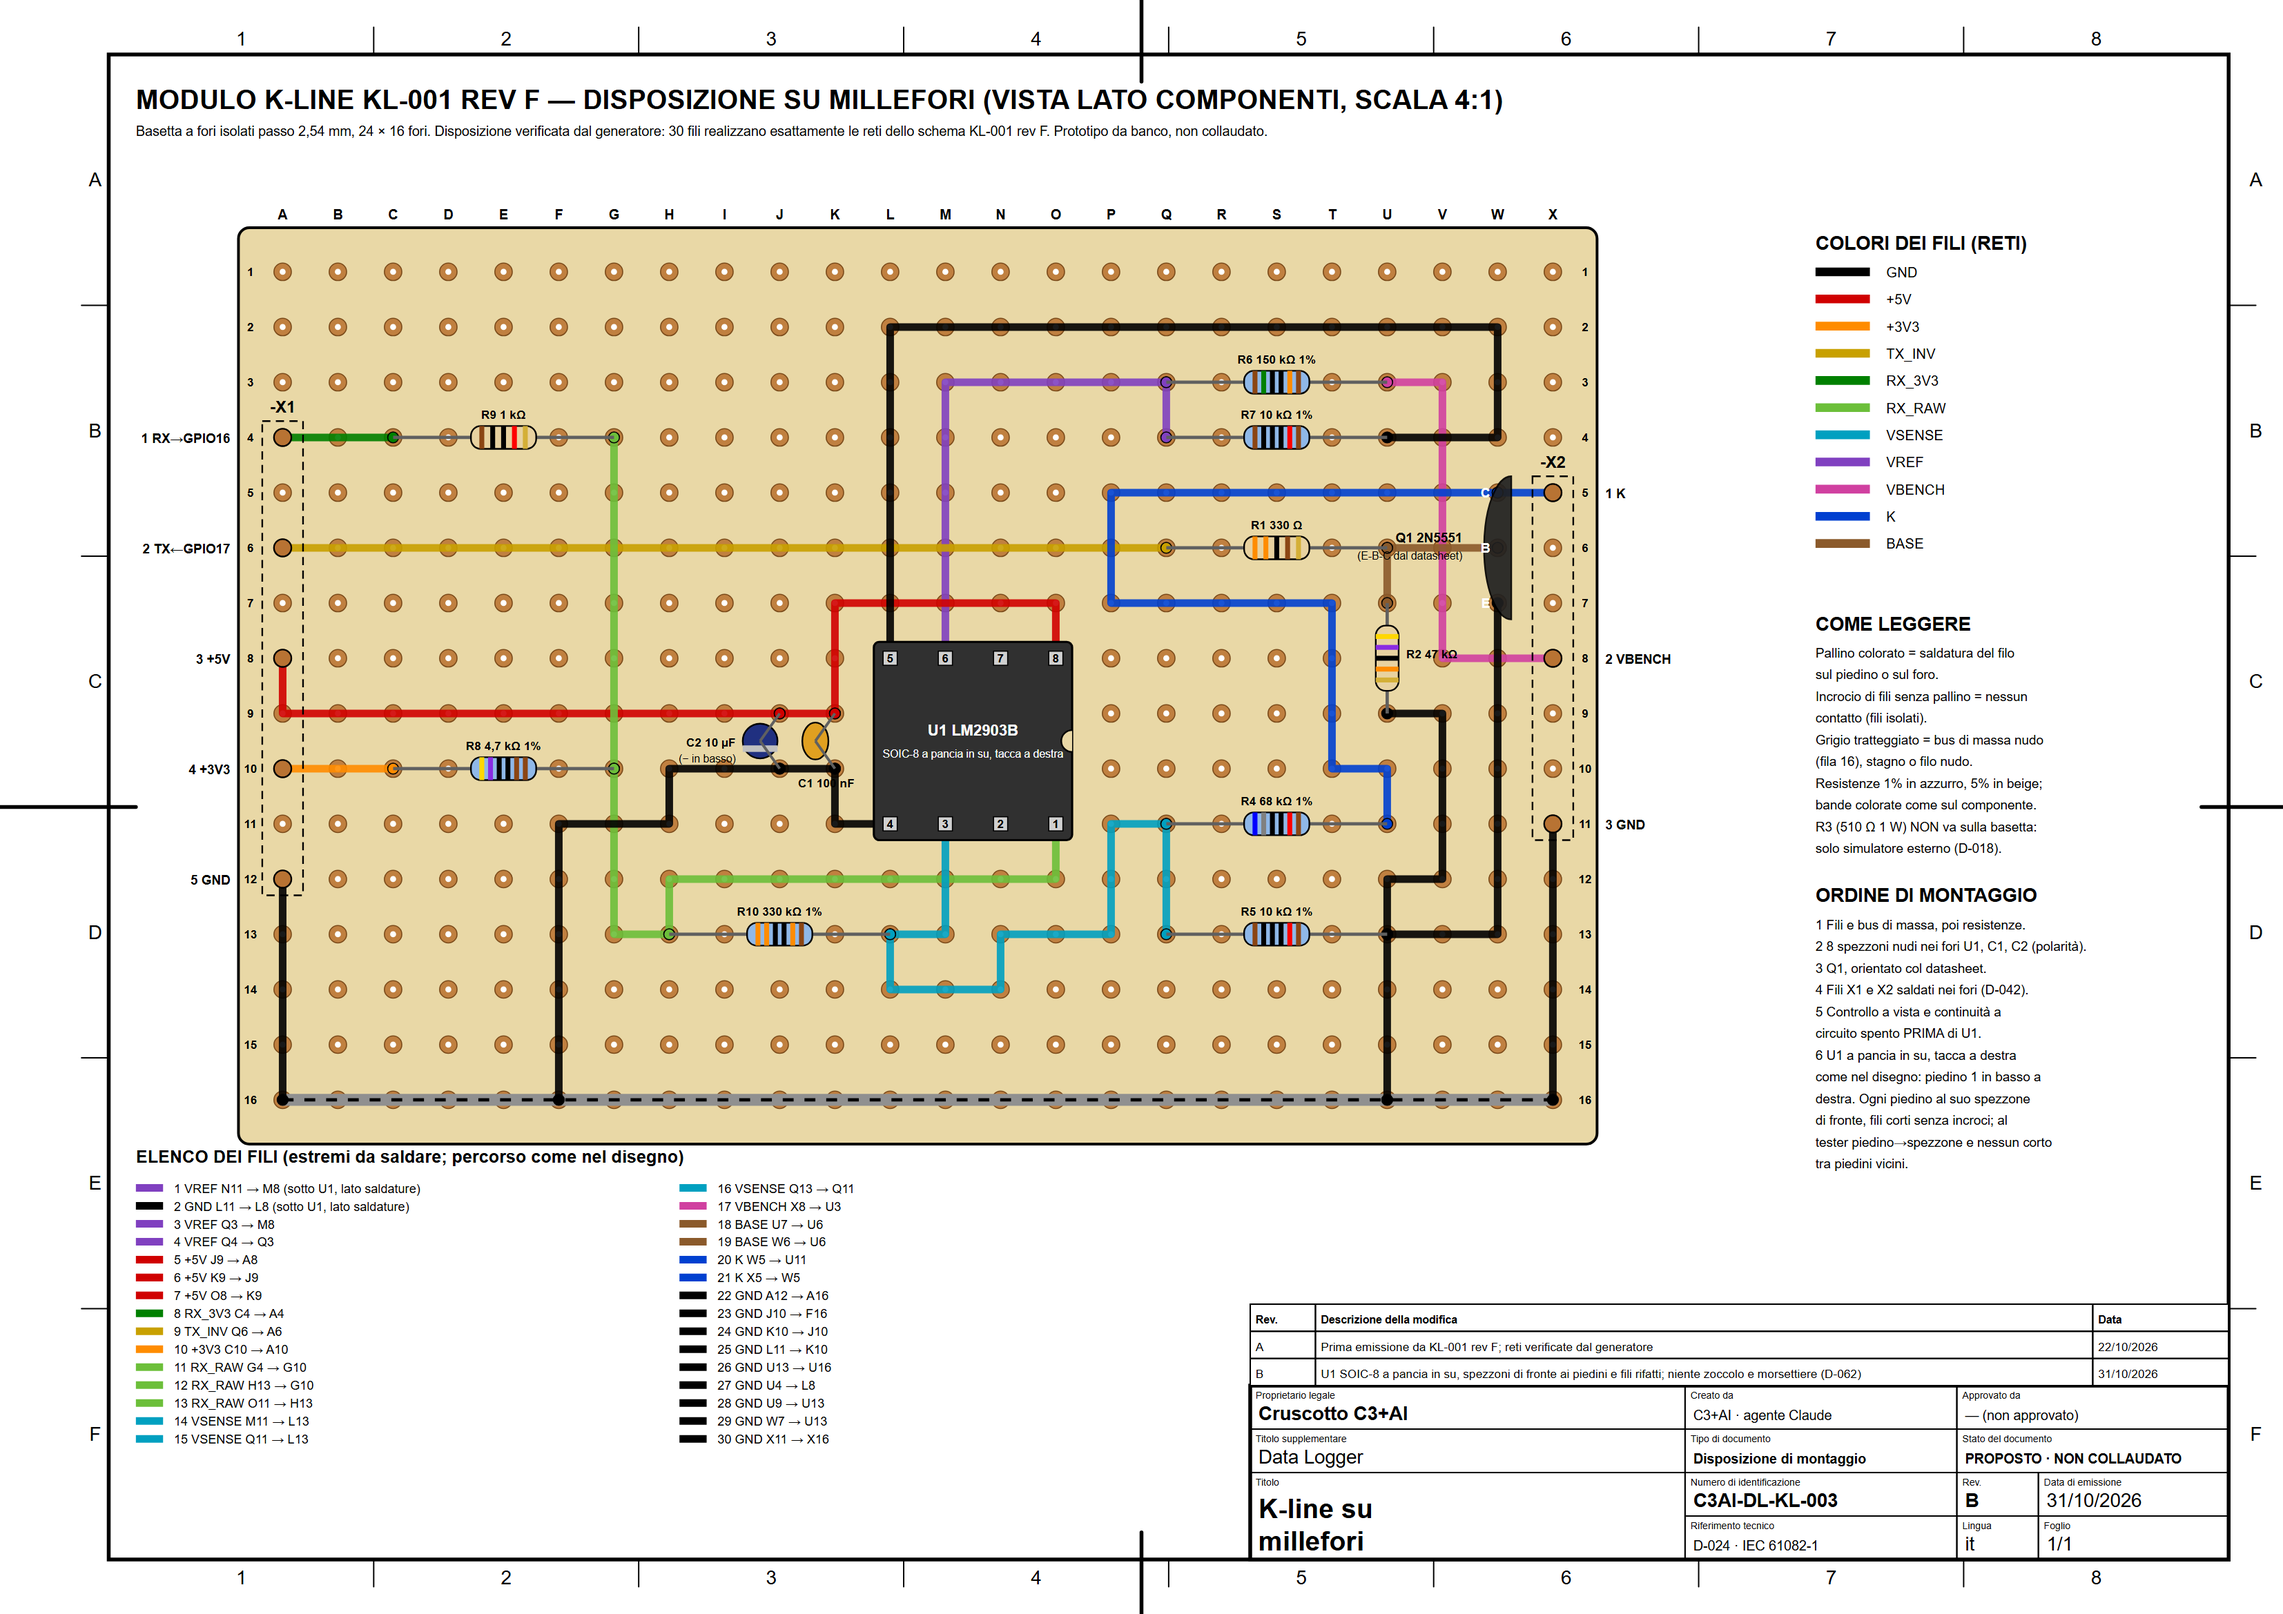
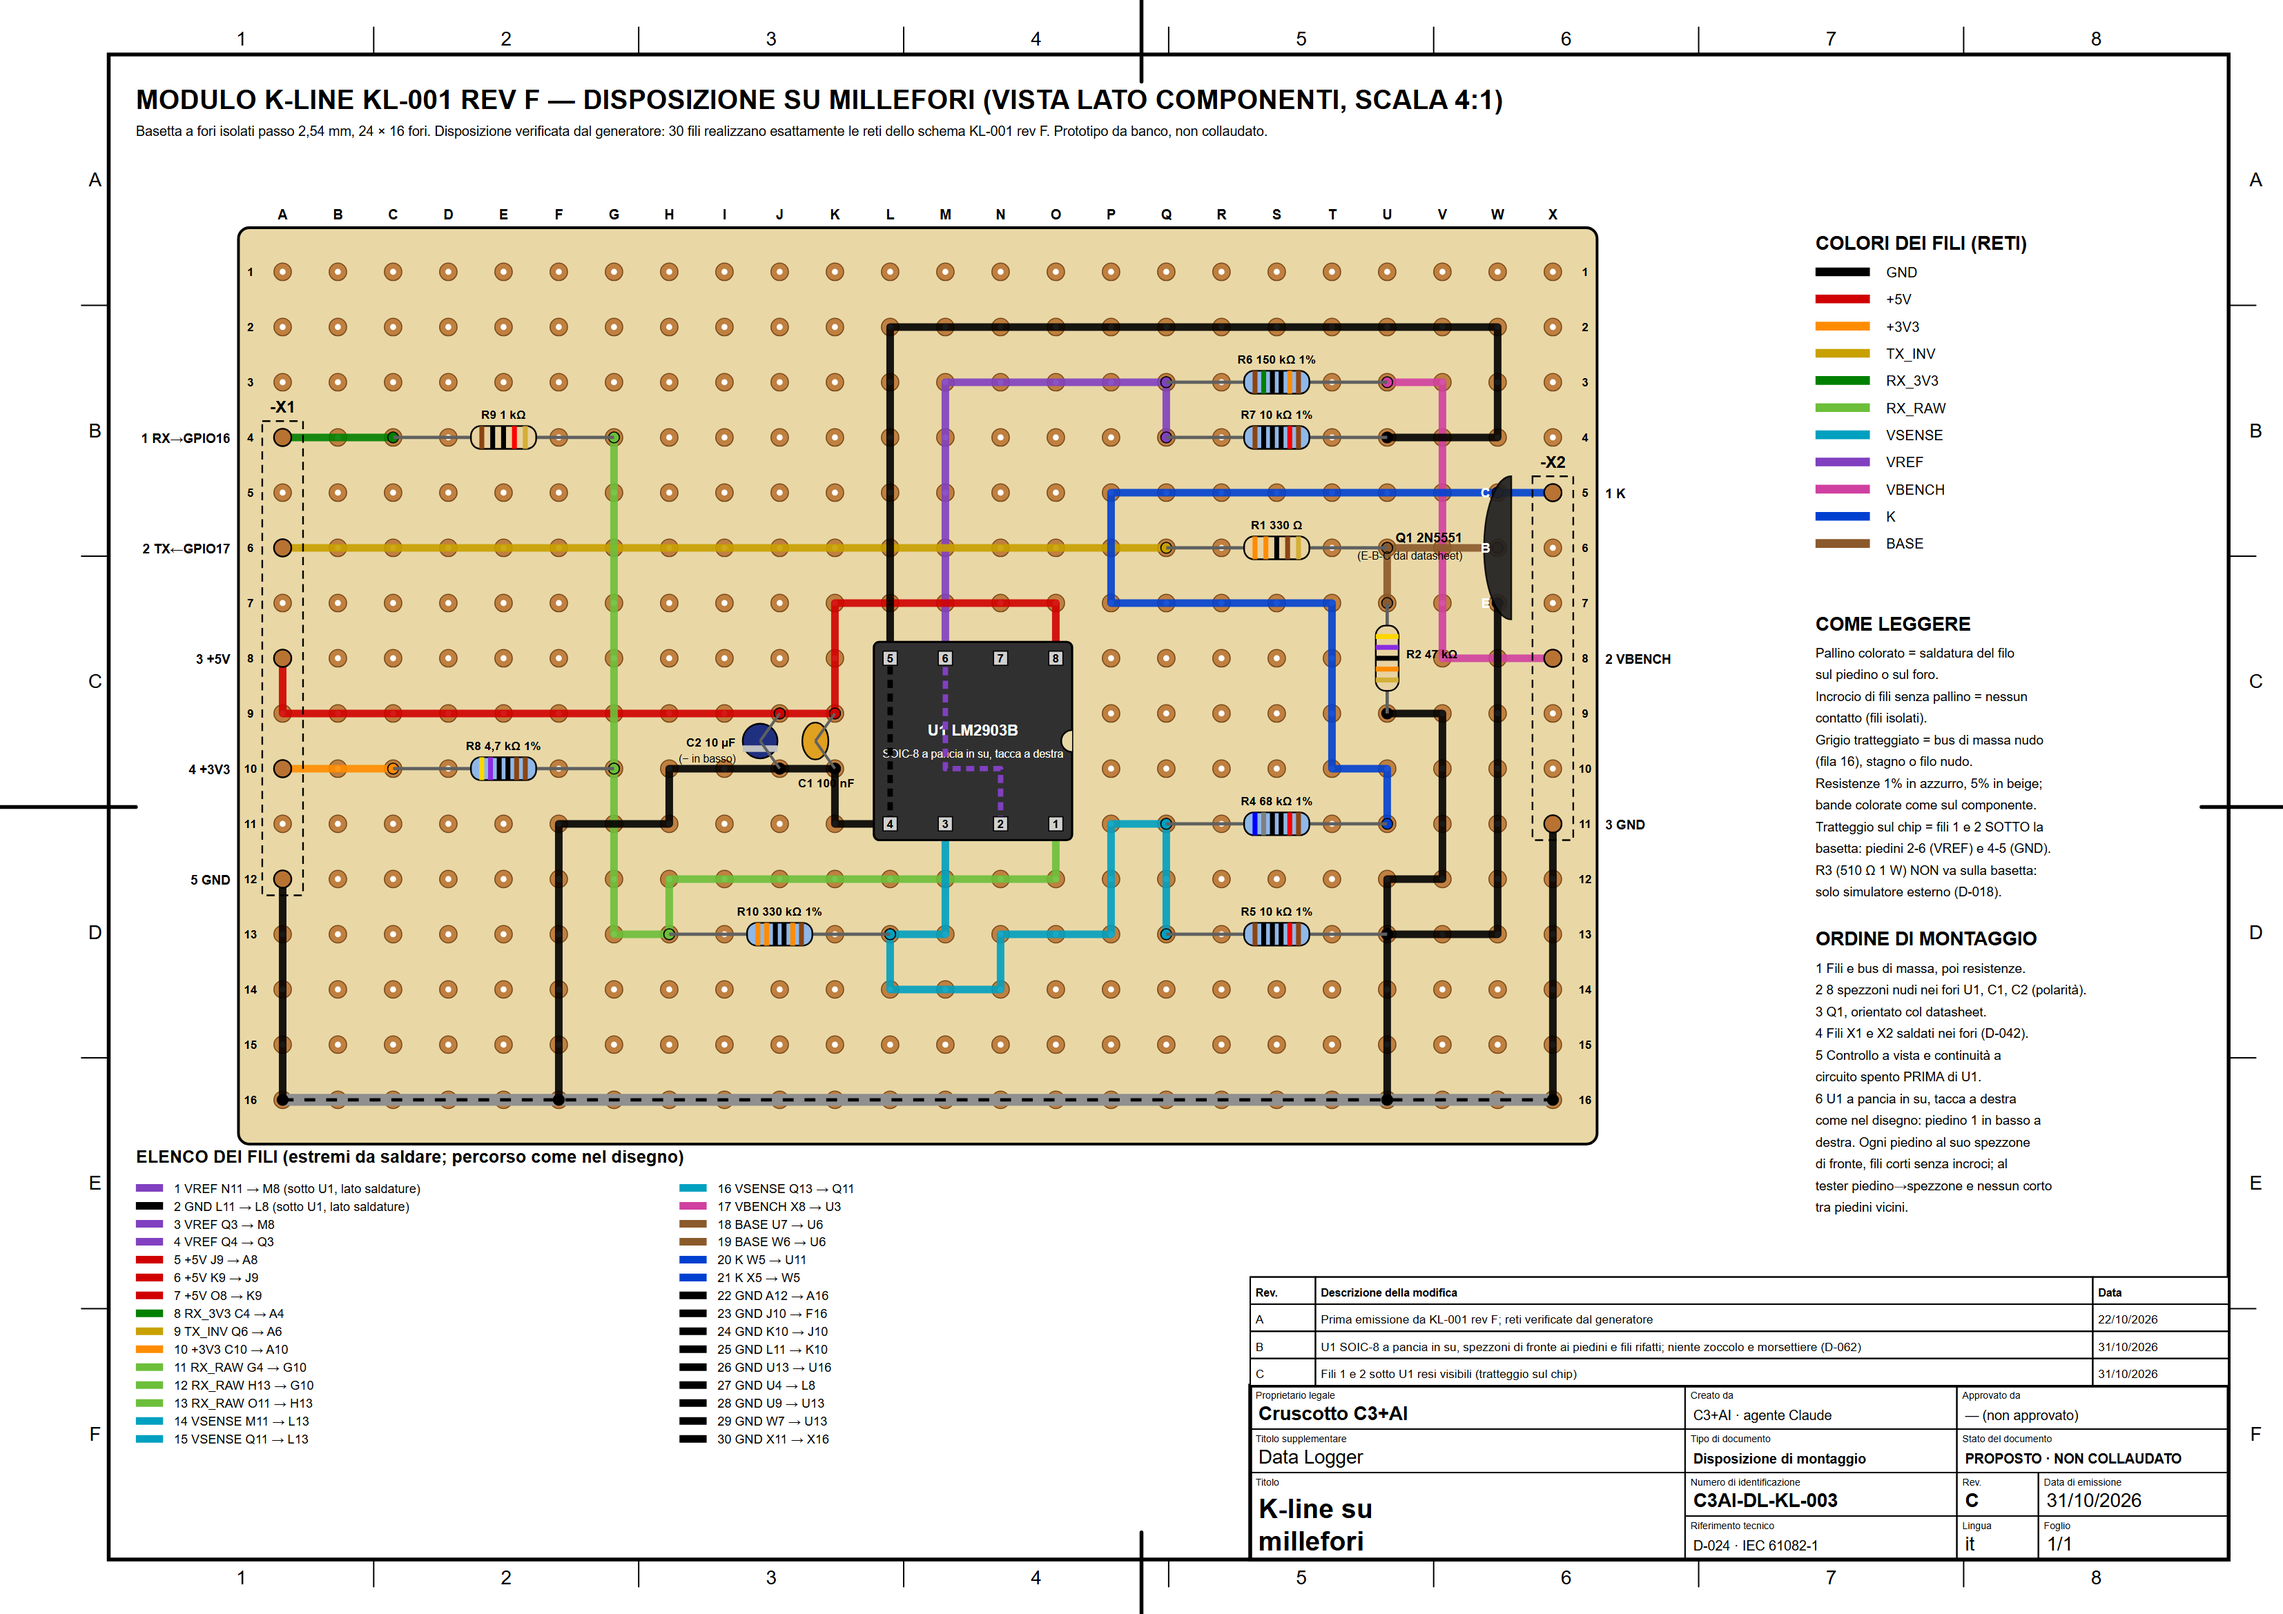
docs: KL-003 rev C, fili 1 e 2 sotto U1 visibili sul disegno

Changed region(s): [[0.7787, 0.4994, 0.9032, 0.749], [0.5918, 0.7802, 0.7475, 0.8739]]

diff --git a/tools/genera-kline-millefori.py b/tools/genera-kline-millefori.py
@@ -341,6 +341,11 @@ def draw():
     d.raw(f'<path d="M{xb + 3:.2f} {(ya + yb) / 2 - 2:.2f} a2 2 0 0 0 0 4" fill="#e9d8a6" stroke="#000" stroke-width="0.3"/>')
     d.raw(f'<text x="{(xa + xb) / 2:.2f}" y="{(ya + yb) / 2 - 1:.2f}" font-size="2.8" text-anchor="middle" font-weight="bold" fill="#ffffff" font-family="Arial">U1 LM2903B</text>')
     d.raw(f'<text x="{(xa + xb) / 2:.2f}" y="{(ya + yb) / 2 + 3:.2f}" font-size="2" text-anchor="middle" fill="#ffffff" font-family="Arial">SOIC-8 a pancia in su, tacca a destra</text>')
+    # Fili sotto U1 (lato saldature) disegnati tratteggiati sopra il corpo, altrimenti resterebbero nascosti
+    for net, path in FIXED:
+        pts = ' '.join(f'{P(h)[0]:.2f},{P(h)[1]:.2f}' for h in path)
+        d.raw(f'<polyline points="{pts}" fill="none" stroke="{NET_COLOR[net]}" stroke-width="1.0" '
+              f'stroke-dasharray="1.5 1" stroke-linejoin="round"/>')
     for pin, (h, _) in COMP['U1'].items():
         x, y = P(h)
         d.raw(f'<rect x="{x - 1.3:.2f}" y="{y - 1.3:.2f}" width="2.6" height="2.6" fill="#d0d0d0" stroke="#000" stroke-width="0.2"/>')
@@ -403,10 +408,12 @@ def draw():
         '(fila 16), stagno o filo nudo.',
         'Resistenze 1% in azzurro, 5% in beige;',
         'bande colorate come sul componente.',
+        'Tratteggio sul chip = fili 1 e 2 SOTTO la',
+        'basetta: piedini 2-6 (VREF) e 4-5 (GND).',
         'R3 (510 Ω 1 W) NON va sulla basetta:',
         'solo simulatore esterno (D-018).',
     ], h=2.4, step=4.0)
-    d.notes(LX, LY + 120, 'ORDINE DI MONTAGGIO', [
+    d.notes(LX, LY + 128, 'ORDINE DI MONTAGGIO', [
         '1 Fili e bus di massa, poi resistenze.',
         '2 8 spezzoni nudi nei fori U1, C1, C2 (polarità).',
         '3 Q1, orientato col datasheet.',
@@ -434,9 +441,10 @@ def draw():
         d.text(x + 7, y, f'{i + 1:2d}  {net:7s} {path[0]} → {path[-1]}{note}', 2.3)
     d.title_block(title=['K-line su', 'millefori'], subtitle='Data Logger',
                   doc_type='Disposizione di montaggio', status='PROPOSTO · NON COLLAUDATO',
-                  code='C3AI-DL-KL-003', rev='B', date='31/10/2026', sheet='1/1',
+                  code='C3AI-DL-KL-003', rev='C', date='31/10/2026', sheet='1/1',
                   revisions=[('A', 'Prima emissione da KL-001 rev F; reti verificate dal generatore', '22/10/2026'),
-                             ('B', 'U1 SOIC-8 a pancia in su, spezzoni di fronte ai piedini e fili rifatti; niente zoccolo e morsettiere (D-062)', '31/10/2026')])
+                             ('B', 'U1 SOIC-8 a pancia in su, spezzoni di fronte ai piedini e fili rifatti; niente zoccolo e morsettiere (D-062)', '31/10/2026'),
+                             ('C', 'Fili 1 e 2 sotto U1 resi visibili (tratteggio sul chip)', '31/10/2026')])
     out = ROOT / 'disegni/sorgenti/DL-KL-003_kline-millefori.svg'
     out.write_text(d.svg('Disposizione dei componenti del modulo K-line KL-001 rev F su millefori; prototipo non collaudato.'),
                    encoding='utf-8')

diff --git a/data-logger/docs/kline-autocostruita.md b/data-logger/docs/kline-autocostruita.md
@@ -191,7 +191,7 @@ disegnati e la disposizione su millefori con i collegamenti da componente a comp
   C3AI-DL-EL-004 rev D ([SVG](../../disegni/sorgenti/DL-EL-004_logger-completo-millefori.svg), generatore
   `tools/genera-logger-millefori-illustrato.py`, D-042): K-line, ESP32, RTC + MicroSD su tre basette,
   IMU su un ritaglio, OLED, VAN (solo ricezione) e STOP, fili saldati W1-W31 senza morsetti. Proposta, non collaudata.
-- [Disposizione su millefori](../../disegni/DL-KL-003_kline-millefori.png), C3AI-DL-KL-003 rev B
+- [Disposizione su millefori](../../disegni/DL-KL-003_kline-millefori.png), C3AI-DL-KL-003 rev C (31/10/2026: fili 1 e 2 sotto U1 resi visibili)
   ([SVG](../../disegni/sorgenti/DL-KL-003_kline-millefori.svg), generatore `tools/genera-kline-millefori.py`):
   basetta 24 × 16 fori passo 2,54 mm, scala 4:1, fili colorati per rete, elenco dei 32
   fili con i fori di partenza e arrivo, ordine di montaggio. Il generatore instrada i
